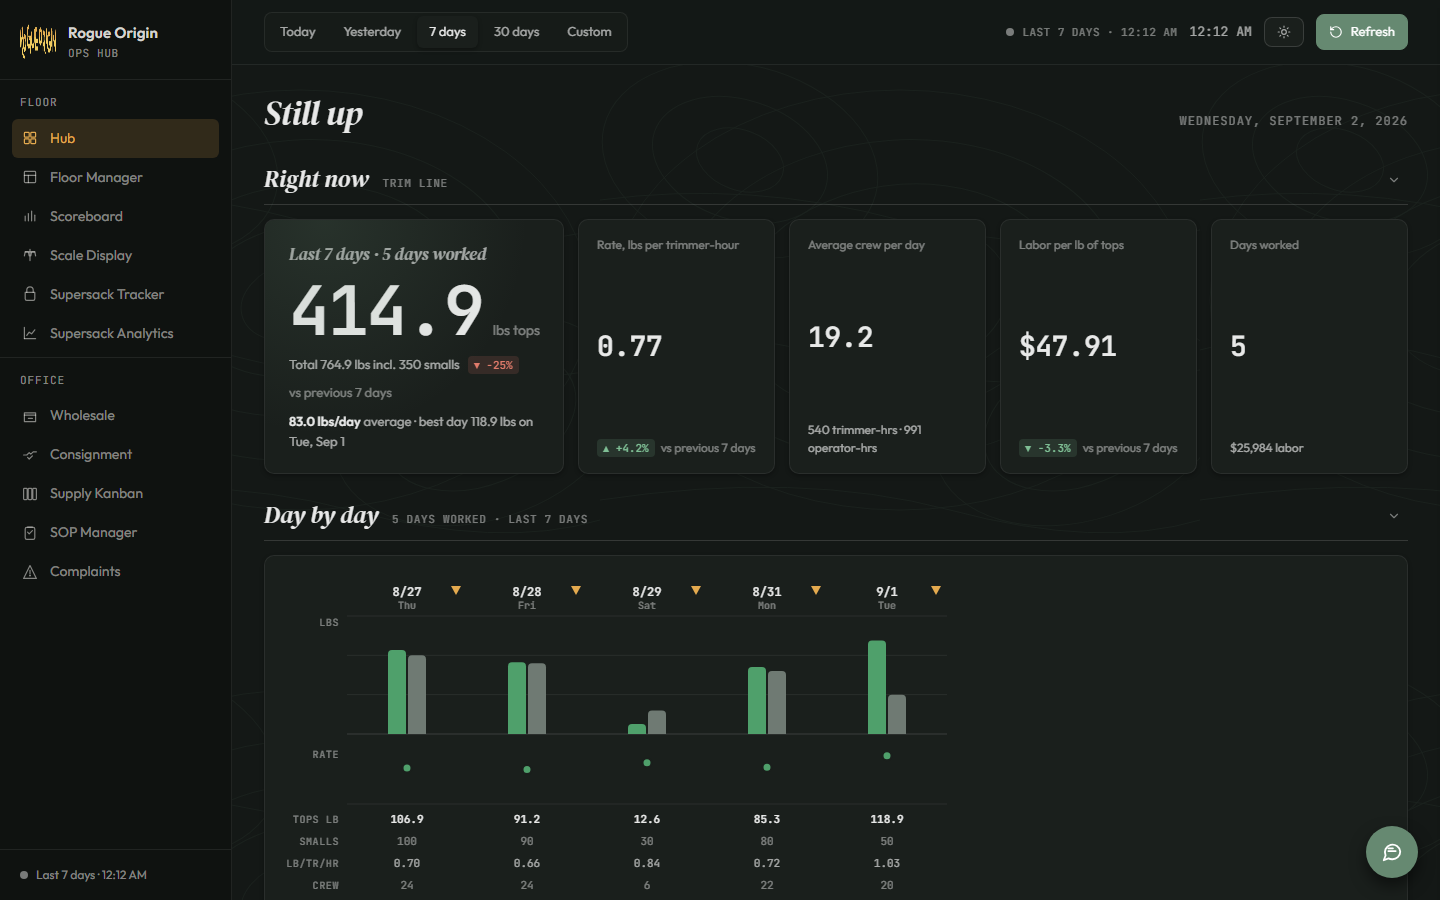
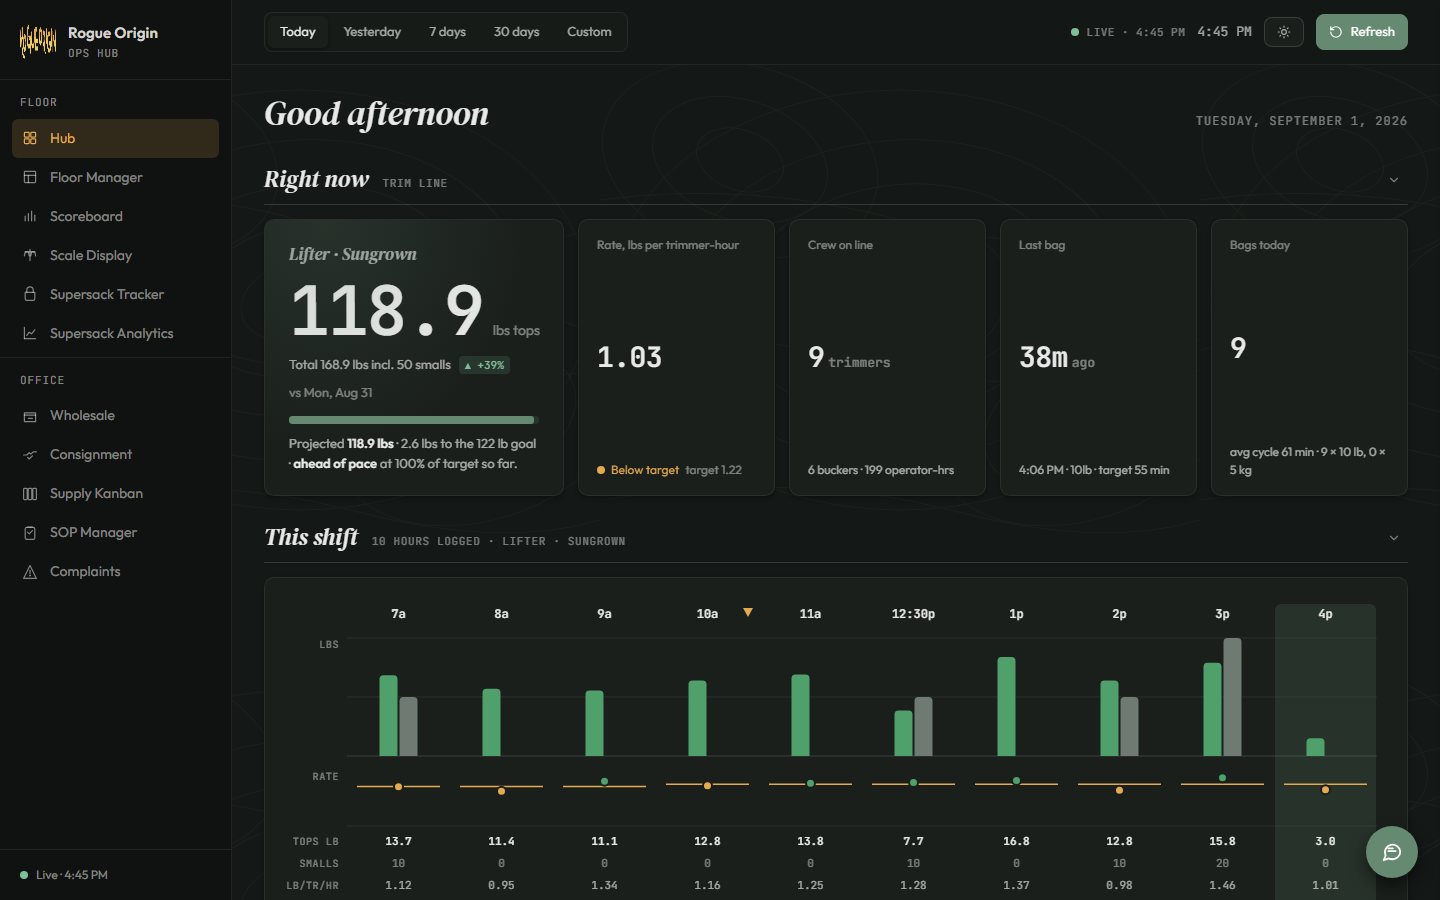
fix(hub): pace line and hero unit; recapture README shot from the Today view
The hero now says whether the line is ahead of or behind pace (todayTarget is
the goal scaled to hours worked, so todayPercentage is the pace figure) as
well as the lbs left to the full-day goal, and the unit no longer clips.

The README screenshot is the Today view at the end of the 2026-09-01 shift:
real worker data, clock frozen to 4:45 PM that day so the live layout renders
outside working hours. No cost tiles above the fold.

diff --git a/src/js/hub/sections.js b/src/js/hub/sections.js
@@ -89,12 +89,16 @@ export function renderNow(state) {
         ? `No hours logged yet. Yesterday (${esc(y.dateDisplay)}): <strong>${num(y.tops)} lbs tops</strong>, ${num(y.smalls, 0)} smalls, ${num(y.rate, 2)} lb/trimmer/hr.`
         : 'No hours logged yet. The first entry from the floor manager will start the ledger.';
     } else if (pctv >= 100) {
-      pace = `<strong>Target met</strong> — ${pct(pctv, 0)} of ${num(target, 0)} lbs after ${num(cur.effectiveHours, 1)} effective hours.`;
+      pace = `<strong>Goal met</strong> — ${pct(pctv, 0)} of ${num(target, 0)} lbs after ${num(cur.effectiveHours, 1)} effective hours.`;
     } else {
+      // `todayTarget` is the goal scaled to the hours worked so far, so
+      // todayPercentage says whether the line is ahead of or behind pace.
       const remaining = target - tops;
-      const perHr = cur.effectiveHours > 0 ? tops / cur.effectiveHours : 0;
-      const hrs = perHr > 0 ? remaining / perHr : null;
-      pace = `Projected <strong>${num(cur.projectedTotal || tops)} lbs</strong> · ${num(remaining)} lbs to target${hrs ? ` ≈ ${num(hrs, 1)} h at the current pace` : ''}.`;
+      const paceP = cur.todayPercentage;
+      const paceText = isNum(paceP) && cur.todayTarget > 0
+        ? ` · <strong>${paceP >= 100 ? 'ahead of pace' : 'behind pace'}</strong> at ${pct(paceP, 0)} of target so far`
+        : '';
+      pace = `Projected <strong>${num(cur.projectedTotal || tops)} lbs</strong> · ${num(remaining)} lbs to the ${num(target, 0)} lb goal${paceText}.`;
     }
 
     const rateTarget = sb.targetRate || (data.hourly || []).slice(-1)[0]?.target || null;
@@ -105,7 +109,7 @@ export function renderNow(state) {
     host.innerHTML = `
       <div class="card hero">
         <div class="strain">${esc(cultivarShort(cur.strain) || 'No cultivar logged')}</div>
-        <div class="big"><span class="n">${num(tops)}</span><span class="u">lbs tops today</span></div>
+        <div class="big"><span class="n">${num(tops)}</span><span class="u">lbs tops</span></div>
         <div class="sub">Total ${num(today.totalLbs)} lbs incl. ${num(today.totalSmalls, 0)} smalls ${hoursLogged ? deltaChip(tops, prev?.tops, { vs }) : ''}</div>
         <div class="meter${pctv >= 100 ? '' : pctv < 60 && hoursLogged > 5 ? ' warn' : ''}" role="progressbar" aria-valuenow="${Math.round(pctv)}" aria-valuemin="0" aria-valuemax="100" aria-label="Progress to daily target"><span style="width:${Math.min(100, pctv).toFixed(1)}%"></span></div>
         <div class="pace">${pace}</div>

diff --git a/src/pages/index.html b/src/pages/index.html
@@ -186,7 +186,7 @@
     "../js/hub/ledger.js": "../js/hub/ledger.js?h=af325ae9",
     "../js/hub/main.js": "../js/hub/main.js?h=abc0ba0c",
     "../js/hub/range.js": "../js/hub/range.js?h=2a7d571e",
-    "../js/hub/sections.js": "../js/hub/sections.js?h=3a5eac75",
+    "../js/hub/sections.js": "../js/hub/sections.js?h=cfab9d7d",
     "../js/hub/svg.js": "../js/hub/svg.js?h=7741e308",
     "../js/shared/api.js": "../js/shared/api.js?h=55201839",
     "../js/shared/theme.js": "../js/shared/theme.js?h=b4816114"
